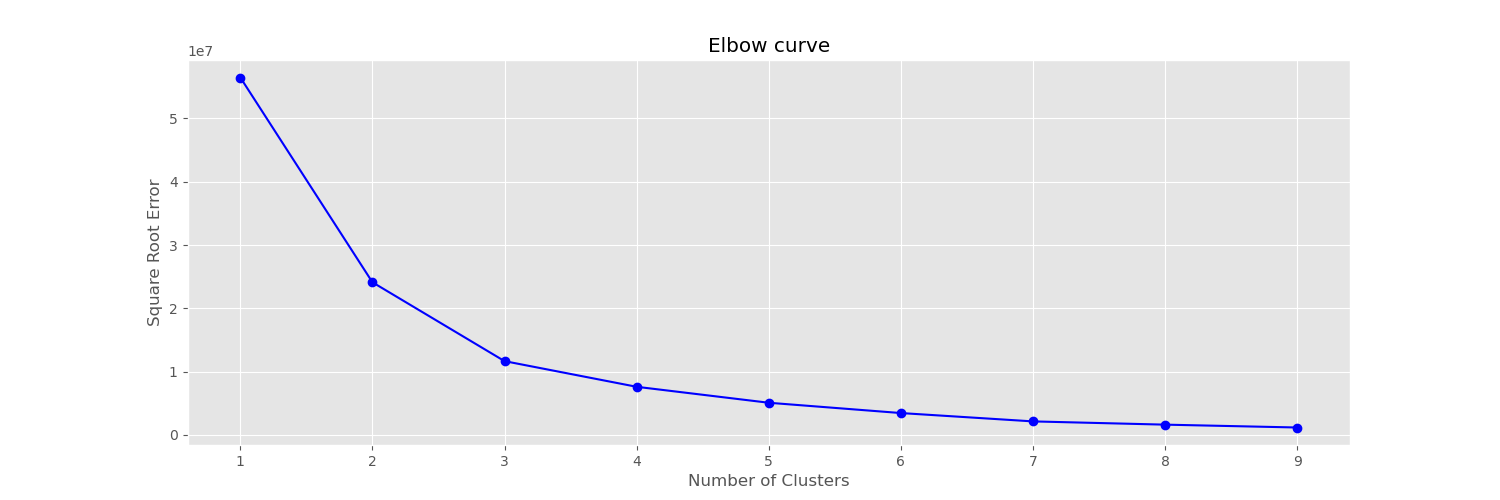
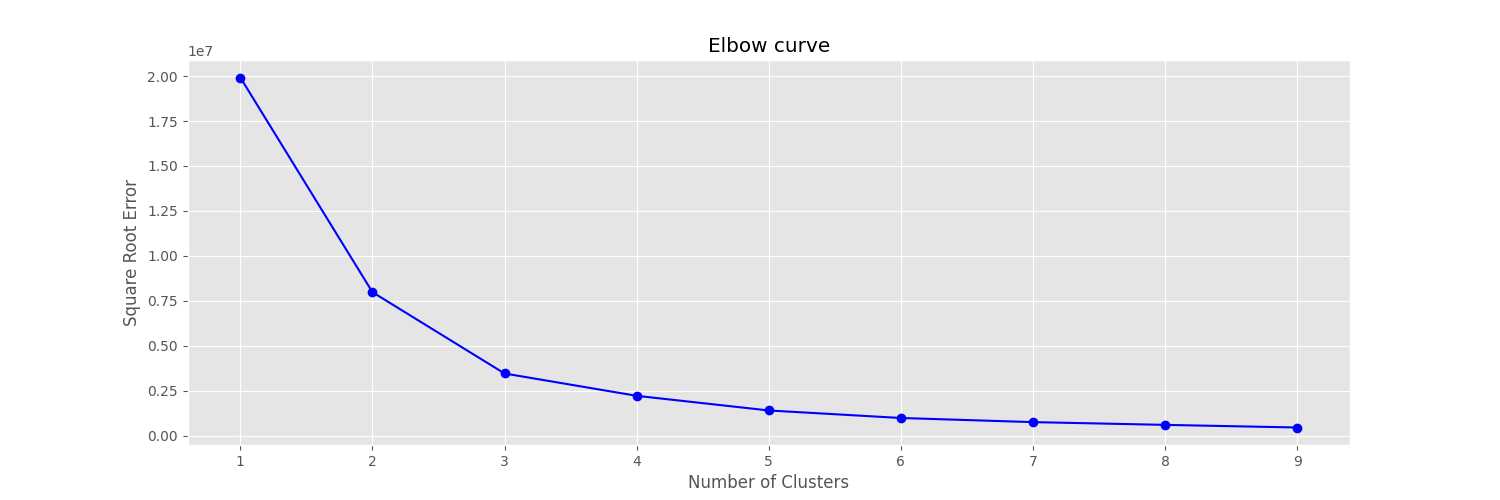
experimenting clustering

diff --git a/intrinsic-trial1/Code/test.py b/intrinsic-trial1/Code/test.py
@@ -14,15 +14,12 @@ from sklearn.decomposition import PCA
 from sklearn.preprocessing import StandardScaler
 
 import nltk
-import os
 
 nltk.download('cmudict')
 nltk.download('stopwords')
 
 style.use("ggplot")
 cmuDictionary = None
-
-DATASET = 'docs_backup/back'
 
 
 # takes a paragraph of text and divides it into chunks of specified number of sentences
@@ -49,7 +46,6 @@ def slidingWindow(sequence, winSize, step=1):
     for i in range(0, numOfChunks * step, step):
         l.append(" ".join(sequence[i:i + winSize]))
 
-    # print (l)
     return l
 
 
@@ -390,81 +386,62 @@ def PrepareData(text1, text2, Winsize):
     return " ".join(str(chunk1) + str(chunk2) for chunk1, chunk2 in zip(chunks1, chunks2))
 
 
-def loadText():
-
-    assignment_files = []
-
-    for filename in os.listdir(DATASET):
-        # assignment_files.append(DATASET + '/' + filename + '.txt')
-        currentFile = DATASET + '/' + filename
-        # print (filename)
-        currentData = open(currentFile, errors='ignore').read()
-        currentData = sent_tokenize(currentData)
-
-        assignment_files.append(" ".join(currentData))
-
-    # print(assignment_files)
-    return assignment_files
-
-
 # ------------------------------------------------------------------
 
 # returns a feature vector of text
-# def FeatureExtration(text, winSize, step):
-def FeatureExtration(winSize):
+def FeatureExtration(text, winSize, step):
     # cmu dictionary for syllables
     global cmuDictionary
     cmuDictionary = cmudict.dict()
 
-    # chunks = slidingWindow(text, winSize, step)
-    chunks = loadText()
+    chunks = slidingWindow(text, winSize, step)
     vector = []
     for chunk in chunks:
         feature = []
 
         # LEXICAL FEATURES
-        # meanwl = (Avg_wordLength(chunk))
-        # feature.append(meanwl)
+        meanwl = (Avg_wordLength(chunk))
+        feature.append(meanwl)
 
-        # meansl = (Avg_SentLenghtByCh(chunk))
-        # feature.append(meansl)
+        meansl = (Avg_SentLenghtByCh(chunk))
+        feature.append(meansl)
 
-        # mean = (Avg_SentLenghtByWord(chunk))
-        # feature.append(mean)
+        mean = (Avg_SentLenghtByWord(chunk))
+        feature.append(mean)
 
-        # meanSyllable = Avg_Syllable_per_Word(chunk)
-        # feature.append(meanSyllable)
+        meanSyllable = Avg_Syllable_per_Word(chunk)
+        feature.append(meanSyllable)
 
-        # means = CountSpecialCharacter(chunk)
-        # feature.append(means)
+        means = CountSpecialCharacter(chunk)
+        feature.append(means)
 
-        # p = CountPuncuation(chunk)
-        # feature.append(p)
+        p = CountPuncuation(chunk)
+        feature.append(p)
 
-        # f = CountFunctionalWords(text)
-        # feature.append(f)
+        f = CountFunctionalWords(text)
+        feature.append(f)
 
         # VOCABULARY RICHNESS FEATURES
 
-        # TTratio = typeTokenRatio(chunk)
-        # feature.append(TTratio)
+        TTratio = typeTokenRatio(chunk)
+        feature.append(TTratio)
 
-        # HonoreMeasureR, hapax = hapaxLegemena(chunk)
-        # feature.append(hapax)
-        # feature.append(HonoreMeasureR)
+        HonoreMeasureR, hapax = hapaxLegemena(chunk)
+        feature.append(hapax)
+        feature.append(HonoreMeasureR)
 
-        # SichelesMeasureS, dihapax = hapaxDisLegemena(chunk)
-        # feature.append(dihapax)
-        # feature.append(SichelesMeasureS)
+        SichelesMeasureS, dihapax = hapaxDisLegemena(chunk)
+        feature.append(dihapax)
+        feature.append(SichelesMeasureS)
 
-        # YuleK = YulesCharacteristicK(chunk)
-        # feature.append(YuleK)
+        YuleK = YulesCharacteristicK(chunk)
+        feature.append(YuleK)
 
         S = SimpsonsIndex(chunk)
         feature.append(S)
 
-        # B = BrunetsMeasureW(chunk)
-        # feature.append(B)
+        B = BrunetsMeasureW(chunk)
+        feature.append(B)
 
         Shannon = ShannonEntropy(text)
         feature.append(Shannon)
@@ -512,9 +489,8 @@ def ElbowMethod(data):
 # -----------------------------------------------------------------------------------------
 # ANALYSIS PART
 
-
 # Using the graph shown in Elbow Method, find the appropriate value of K and set it here.
-def Analysis(vector, K=2):
+def Analysis(vector, K=4):
     arr = (np.array(vector))
 
     # mean normalization of the data . converting into normal distribution having mean=0 , -0.1<x<0.1
@@ -528,20 +504,11 @@ def Analysis(vector, K=2):
 
     kmeans = KMeans(n_clusters=K, n_jobs=-1)
     kmeans.fit_transform(components)
-    # print("labels: ", kmeans.labels_)
-
+    print("labels: ", kmeans.labels_)
     centers = kmeans.cluster_centers_
 
     # lables are assigned by the algorithm if 2 clusters then lables would be 0 or 1
     lables = kmeans.labels_
-
-    files = []
-    for filename in os.listdir(DATASET):
-        files.append(filename)
-
-    for i in range(len(components)):
-        print(files[i] + "     " + str(lables[i]))
-
     colors = ["r.", "g.", "b.", "y.", "c."]
     colors = colors[:K + 1]
 
@@ -557,16 +524,13 @@ def Analysis(vector, K=2):
     plt.title(title)
     plt.savefig("Results" + ".png")
     plt.show()
-    # exit
 
 
 if __name__ == '__main__':
 
     # You can try any text file here
-    text = open("DocumentWithVariantWritingStyles.txt").read()
-    # vector = FeatureExtration(text, winSize=2, step=2)
+    text = open("test.txt").read()
 
-    vector = FeatureExtration(winSize=10)
-
+    vector = FeatureExtration(text, winSize=10, step=10)
     ElbowMethod(np.array(vector))
     Analysis(vector)
